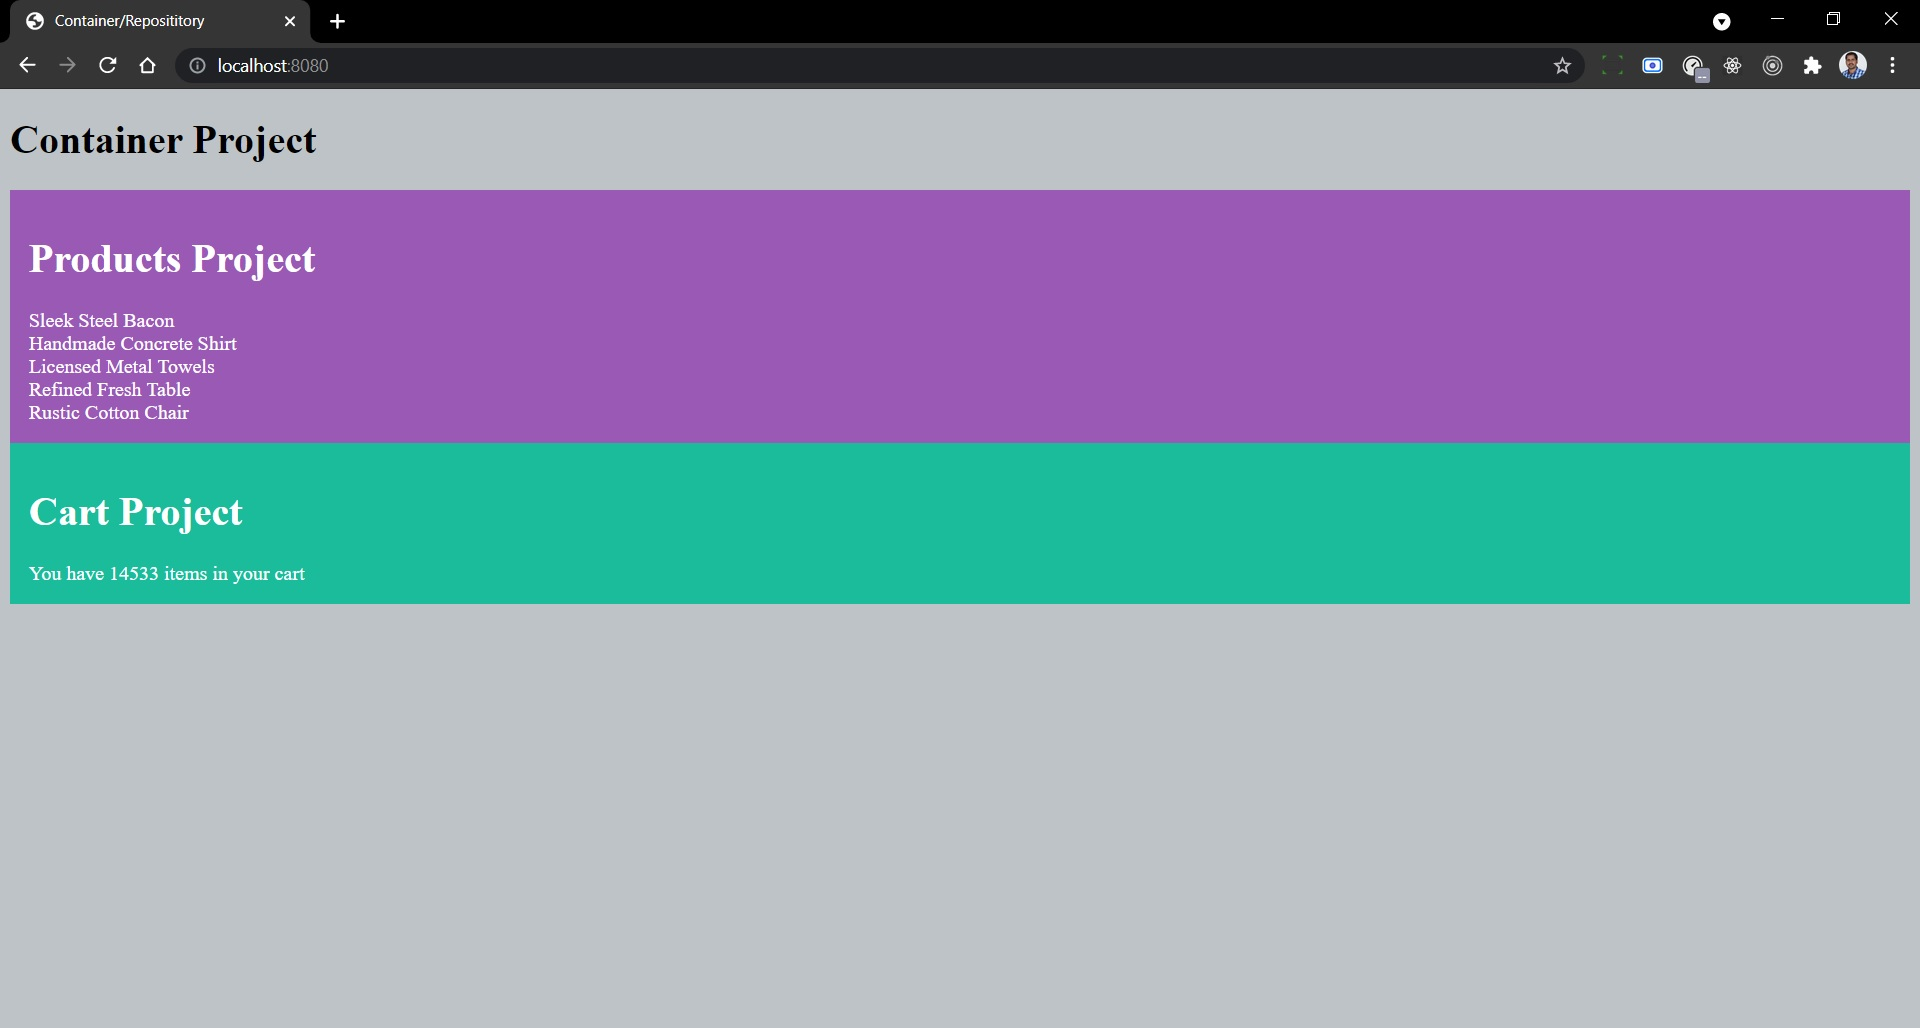
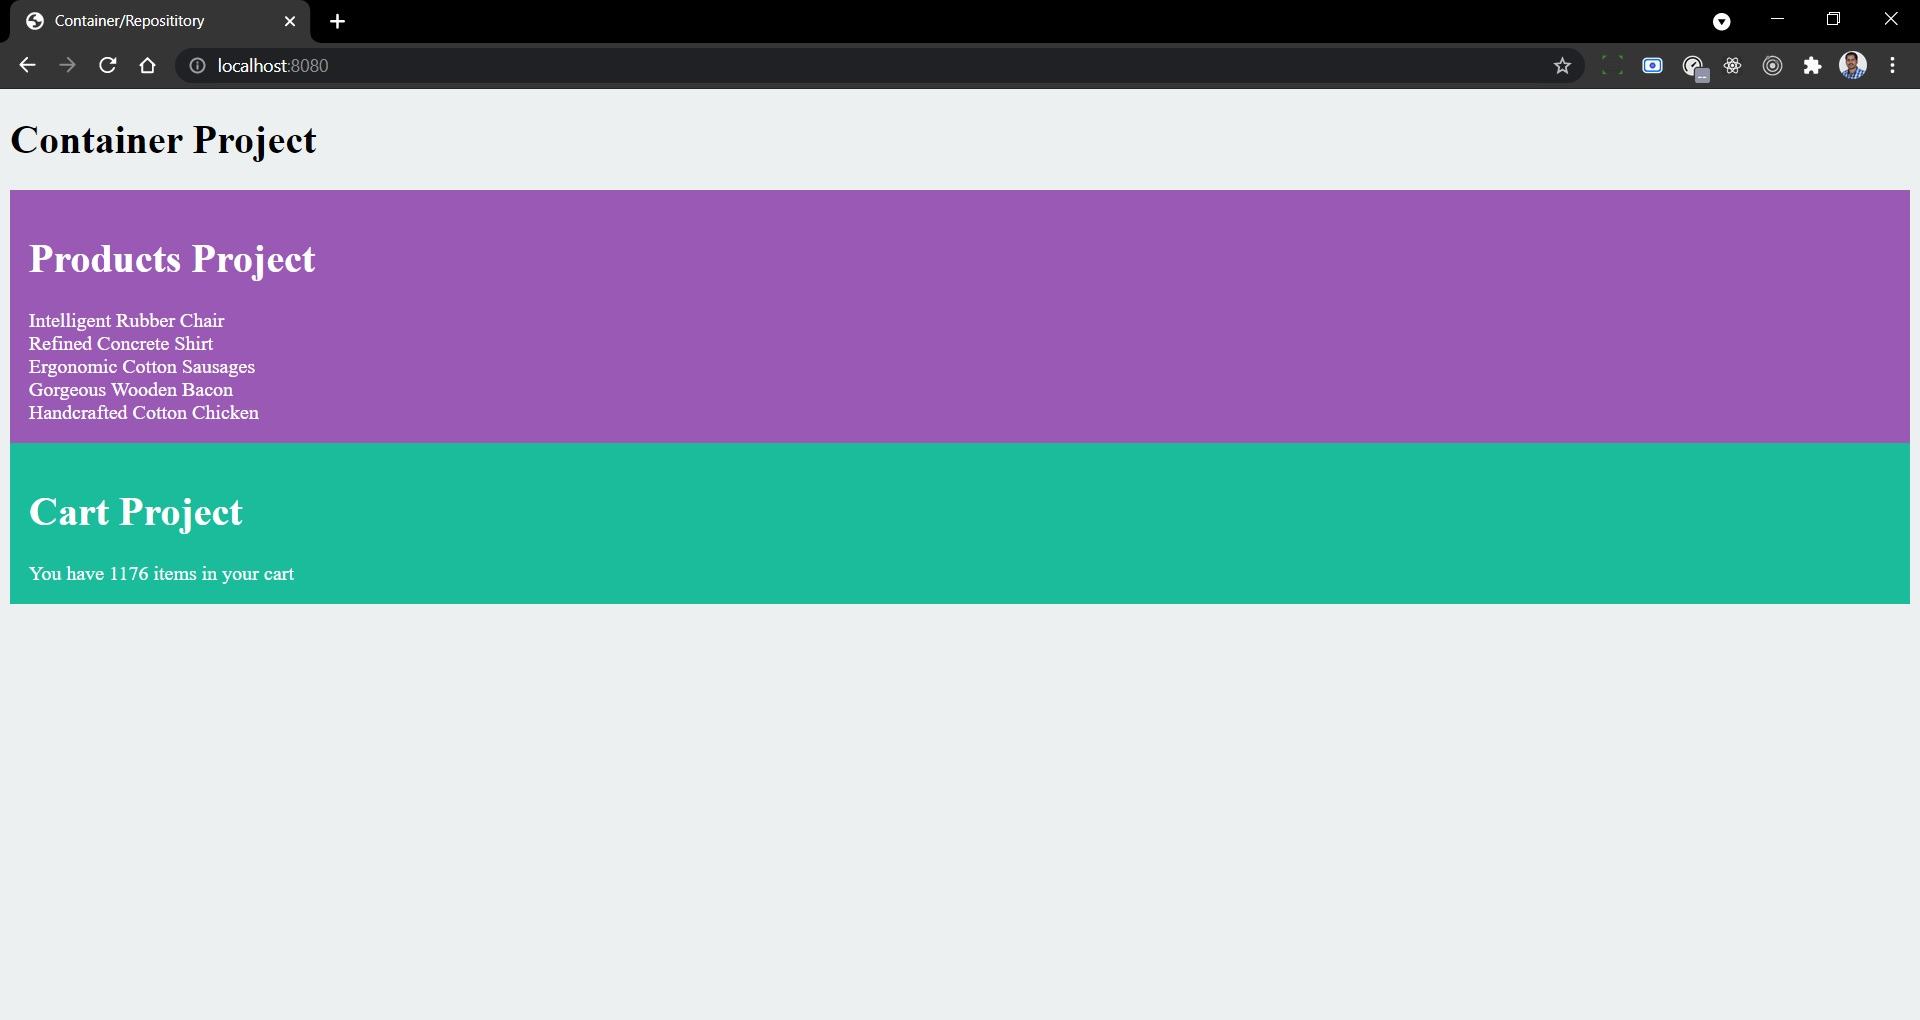
screen updated

diff --git a/ecommerce/container/public/index.html b/ecommerce/container/public/index.html
@@ -7,7 +7,7 @@
   <title>Container/Reposititory</title>
   <style>
     body {
-      background-color: #bdc3c7;
+      background-color: #ecf0f1;
     }
     .products {
       padding: 15px;
